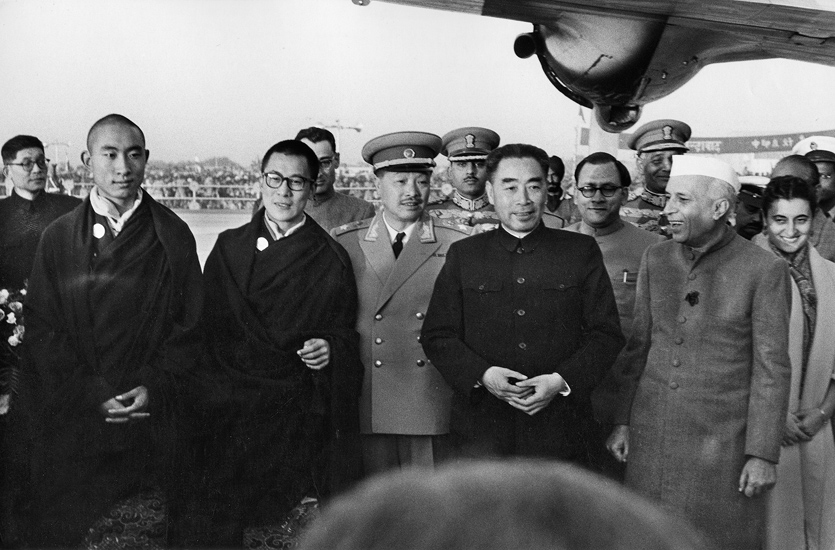
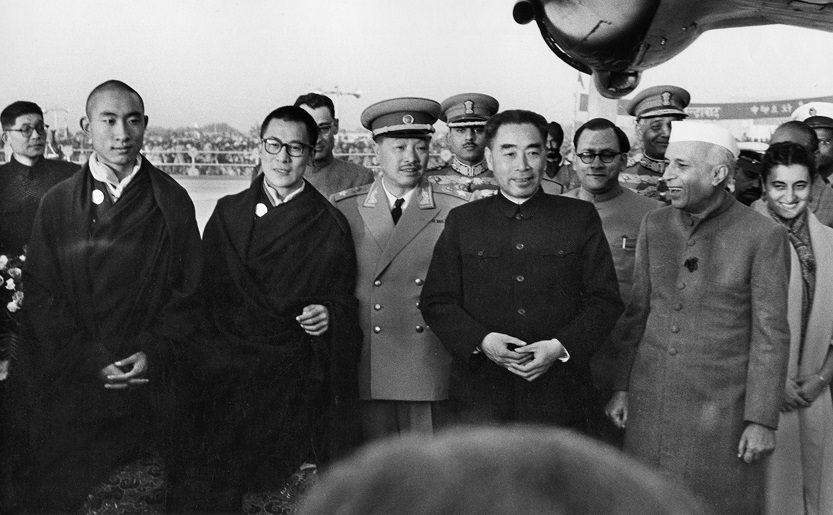
changes to jumbotron

diff --git a/socialmix/css/skins/skin_1.min.css b/socialmix/css/skins/skin_1.min.css
@@ -4,4 +4,4 @@ jQuery Socialmix Timeline
 Copyright (c) Andrea Di Toro 
 http://kodiga.com/jquery-socialmix-timeline/ 
 ***********************************************/
-.sm-container{background-color:#fff}.sm-container .sm-filter-container .sm-dropdown-btn{background-color:#9DB4C0;box-shadow:0 8px 16px 0 rgba(0,0,0,0.2);color:#fff;border-radius:4px}.sm-container .sm-filter-container .sm-dropdown-content{background-color:#f9f9f9;box-shadow:0 8px 16px 0 rgba(0,0,0,0.2)}.sm-container .sm-filter-container .sm-dropdown-content a{color:black;border-bottom:1px solid #efefef}.sm-container .sm-filter-container .sm-dropdown-content a:hover{background-color:#eee}.sm-container .sm-card-container .sm-scrollToTop{border-radius:100%;color:#eee;background-color:#666}.sm-container .sm-card-container .sm-timeline{background-color:#9DB4C0}.sm-container .sm-card-container .sm-timeline:after,.sm-container .sm-card-container .sm-timeline:before{border-color:#9DB4C0;background-color:#fff}.sm-container .sm-card-container .sm-card{min-width:150px;box-shadow:0 10px 20px rgba(0,0,0,0.19)}.sm-container .sm-card-container .sm-card .sm-share-facebook,.sm-container .sm-card-container .sm-card .fa-facebook-square{color:#22407f}.sm-container .sm-card-container .sm-card .sm-share-twitter,.sm-container .sm-card-container .sm-card .fa-twitter-square{color:#55acee}.sm-container .sm-card-container .sm-card .sm-share-gplus,.sm-container .sm-card-container .sm-card .fa-google-plus-square{color:#dd4b39}.sm-container .sm-card-container .sm-card .sm-share-linkedin,.sm-container .sm-card-container .sm-card .fa-linkedin-square{color:#0077b5}.sm-container .sm-card-container .sm-card .sm-show-more{background-color:#9DB4C0}.sm-container .sm-card-container .sm-card .sm-show-more:hover{background:#8ca3af}.sm-container .sm-card-container .sm-card .sm-card-header{background-color:#9DB4C0}.sm-container .sm-card-container .sm-card .sm-card-header:before{background-color:#9DB4C0}.sm-container .sm-card-container .sm-card .sm-card-header .sm-date{color:#fff;font-weight:bold}.sm-container .sm-card-container .sm-card .sm-card-header .sm-btn{color:#666;border-radius:3px;padding:0 5px;background:#fff;box-shadow:0 1px 3px rgba(0,0,0,0.2)}.sm-container .sm-card-container .sm-card .sm-card-header .sm-btn:hover{background:#eee}.sm-container .sm-card-container .sm-card .sm-card-header .sm-share-box{border:2px solid #ccc;border-radius:3px;background-color:#fff}.sm-container .sm-card-container .sm-card .sm-time-point{border-color:#9DB4C0;background-color:#3B6064}.sm-container .sm-card-container .sm-card .sm-time-point:before,.sm-container .sm-card-container .sm-card .sm-time-point:after{background-color:#fff}.sm-container .sm-card-container .sm-card .sm-card-inner{background-color:#fff;border-color:#e8e8e8;border-width:1px}.sm-container .sm-card-container .sm-card .sm-card-inner .sm-card-body .sm-title a{color:#9DB4C0}.sm-container .sm-card-container .sm-card .sm-card-inner .sm-card-footer .sm-user .sm-avatar:before,.sm-container .sm-card-container .sm-card .sm-card-inner .sm-card-footer .sm-user .sm-avatar:after{background-color:#e8e8e8}.sm-container .sm-card-container .sm-card .sm-card-inner .sm-card-footer .sm-like-box .sm-like{border-color:#e8e8e8;color:#444}.sm-container .sm-card-container .sm-card .sm-card-inner .sm-card-footer .sm-users-box .sm-user .sm-avatar{border-radius:0}.sm-container .sm-card-container .sm-card .sm-source{background-color:transparent}.sm-container .sm-right-side .sm-source{right:10px;bottom:4px}.sm-container .sm-left-side .sm-source{left:10px;bottom:4px}.sm-one-column-small .sm-card-container .sm-card{box-shadow:none}.sm-container{font-family:inherit;font-size:14px;color:#444}.sm-container a{color:#9DB4C0}.sm-container .sm-small-font{font-size:12px}.sm-container .sm-large-font{font-size:16px;line-height:20px}.sm-container .sm-icon:after,.sm-container .sm-icon{font-size:14px}.sm-container .sm-large-icon,.sm-container .sm-large-icon:after{font-size:26px}
+.sm-container{background-color:#fff}.sm-container .sm-filter-container .sm-dropdown-btn{background-color:#9DB4C0;box-shadow:0 8px 16px 0 rgba(0,0,0,0.2);color:#fff;border-radius:4px}.sm-container .sm-filter-container .sm-dropdown-content{background-color:#f9f9f9;box-shadow:0 8px 16px 0 rgba(0,0,0,0.2)}.sm-container .sm-filter-container .sm-dropdown-content a{color:black;border-bottom:1px solid #efefef}.sm-container .sm-filter-container .sm-dropdown-content a:hover{background-color:#eee}.sm-container .sm-card-container .sm-scrollToTop{border-radius:100%;color:#eee;background-color:#666}.sm-container .sm-card-container .sm-timeline{background-color:#9DB4C0}.sm-container .sm-card-container .sm-timeline:after,.sm-container .sm-card-container .sm-timeline:before{border-color:#9DB4C0;background-color:#fff}.sm-container .sm-card-container .sm-card{min-width:150px;box-shadow:0 10px 20px rgba(0,0,0,0.19)}.sm-container .sm-card-container .sm-card .sm-share-facebook,.sm-container .sm-card-container .sm-card .fa-facebook-square{color:#22407f}.sm-container .sm-card-container .sm-card .sm-share-twitter,.sm-container .sm-card-container .sm-card .fa-twitter-square{color:#55acee}.sm-container .sm-card-container .sm-card .sm-share-gplus,.sm-container .sm-card-container .sm-card .fa-google-plus-square{color:#dd4b39}.sm-container .sm-card-container .sm-card .sm-share-linkedin,.sm-container .sm-card-container .sm-card .fa-linkedin-square{color:#0077b5}.sm-container .sm-card-container .sm-card .sm-show-more{background-color:#9DB4C0}.sm-container .sm-card-container .sm-card .sm-show-more:hover{background:#8ca3af}.sm-container .sm-card-container .sm-card .sm-card-header{background-color:#B4C7EC}.sm-container .sm-card-container .sm-card .sm-card-header:before{background-color:#9DB4C0}.sm-container .sm-card-container .sm-card .sm-card-header .sm-date{color:#fff;font-weight:bold}.sm-container .sm-card-container .sm-card .sm-card-header .sm-btn{color:#666;border-radius:3px;padding:0 5px;background:#fff;box-shadow:0 1px 3px rgba(0,0,0,0.2)}.sm-container .sm-card-container .sm-card .sm-card-header .sm-btn:hover{background:#eee}.sm-container .sm-card-container .sm-card .sm-card-header .sm-share-box{border:2px solid #ccc;border-radius:3px;background-color:#fff}.sm-container .sm-card-container .sm-card .sm-time-point{border-color:#9DB4C0;background-color:#3B6064}.sm-container .sm-card-container .sm-card .sm-time-point:before,.sm-container .sm-card-container .sm-card .sm-time-point:after{background-color:#fff}.sm-container .sm-card-container .sm-card .sm-card-inner{background-color:#fff;border-color:#e8e8e8;border-width:1px}.sm-container .sm-card-container .sm-card .sm-card-inner .sm-card-body .sm-title a{color:#9DB4C0}.sm-container .sm-card-container .sm-card .sm-card-inner .sm-card-footer .sm-user .sm-avatar:before,.sm-container .sm-card-container .sm-card .sm-card-inner .sm-card-footer .sm-user .sm-avatar:after{background-color:#e8e8e8}.sm-container .sm-card-container .sm-card .sm-card-inner .sm-card-footer .sm-like-box .sm-like{border-color:#e8e8e8;color:#444}.sm-container .sm-card-container .sm-card .sm-card-inner .sm-card-footer .sm-users-box .sm-user .sm-avatar{border-radius:0}.sm-container .sm-card-container .sm-card .sm-source{background-color:transparent}.sm-container .sm-right-side .sm-source{right:10px;bottom:4px}.sm-container .sm-left-side .sm-source{left:10px;bottom:4px}.sm-one-column-small .sm-card-container .sm-card{box-shadow:none}.sm-container{font-family:inherit;font-size:14px;color:#444}.sm-container a{color:#9DB4C0}.sm-container .sm-small-font{font-size:12px}.sm-container .sm-large-font{font-size:16px;line-height:20px}.sm-container .sm-icon:after,.sm-container .sm-icon{font-size:14px}.sm-container .sm-large-icon,.sm-container .sm-large-icon:after{font-size:26px}

diff --git a/demos/assets/demo.css b/demos/assets/demo.css
@@ -88,8 +88,8 @@ footer{
 .jumbotron{
     margin-top: 30px;
     background-image: url(../assets/img/specialfrontierforce-chou-en-lai.jpg);
-    height: 300px;
-    width: 800px;
+    height: 310px;
+    background-size: cover; 
 }
 .jumbotron h1{
     font-size: 50px;
